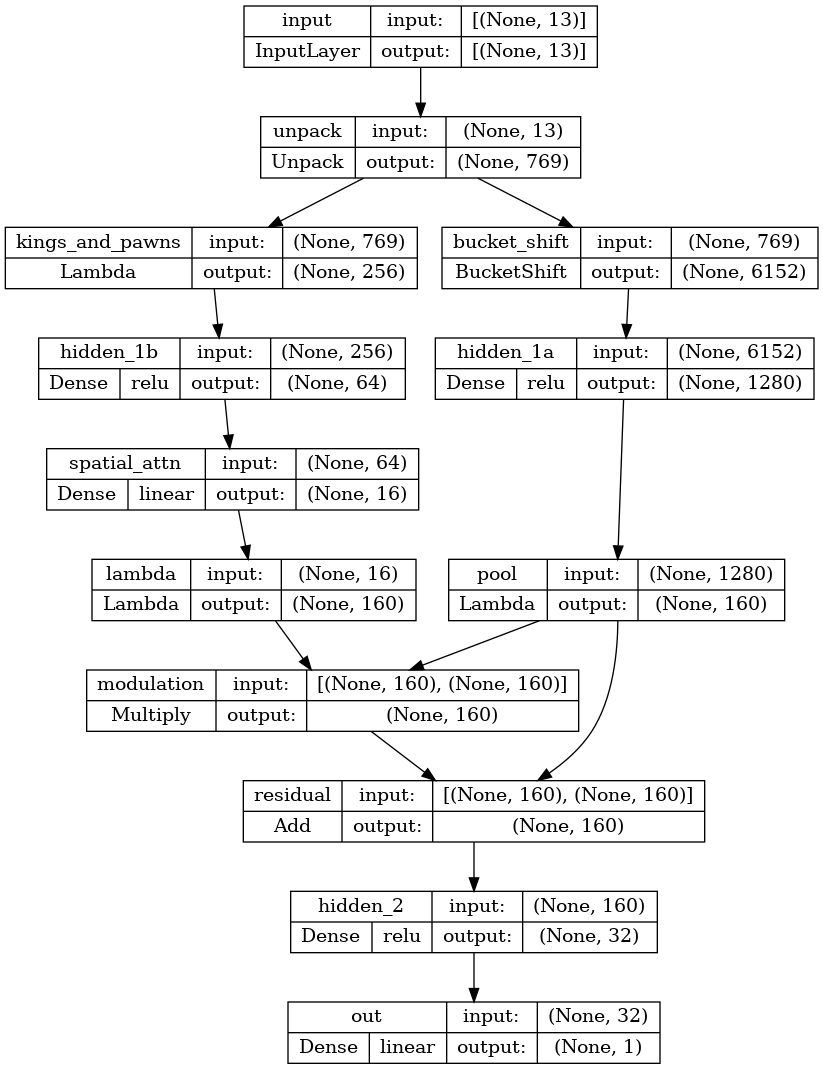
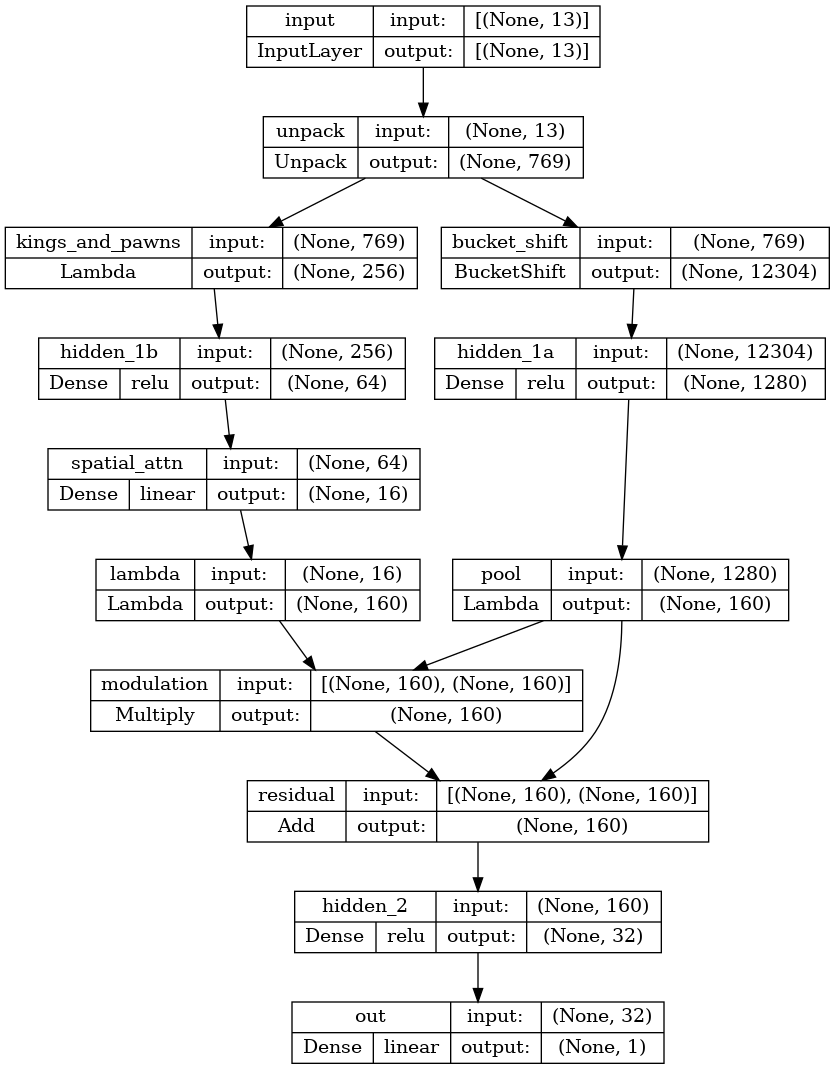
update version and diagram

diff --git a/version.h b/version.h
@@ -2,7 +2,7 @@
 
 #define STURDDLE_VERSION_MAJOR 2
 #define STURDDLE_VERSION_MINOR 6
-#define STURDDLE_VERSION_PATCH "0-V8T"
+#define STURDDLE_VERSION_PATCH "0-KP44"
 
 #define _STURDDLE_STR(x) #x
 #define _STURDDLE_XSTR(x) _STURDDLE_STR(x)
